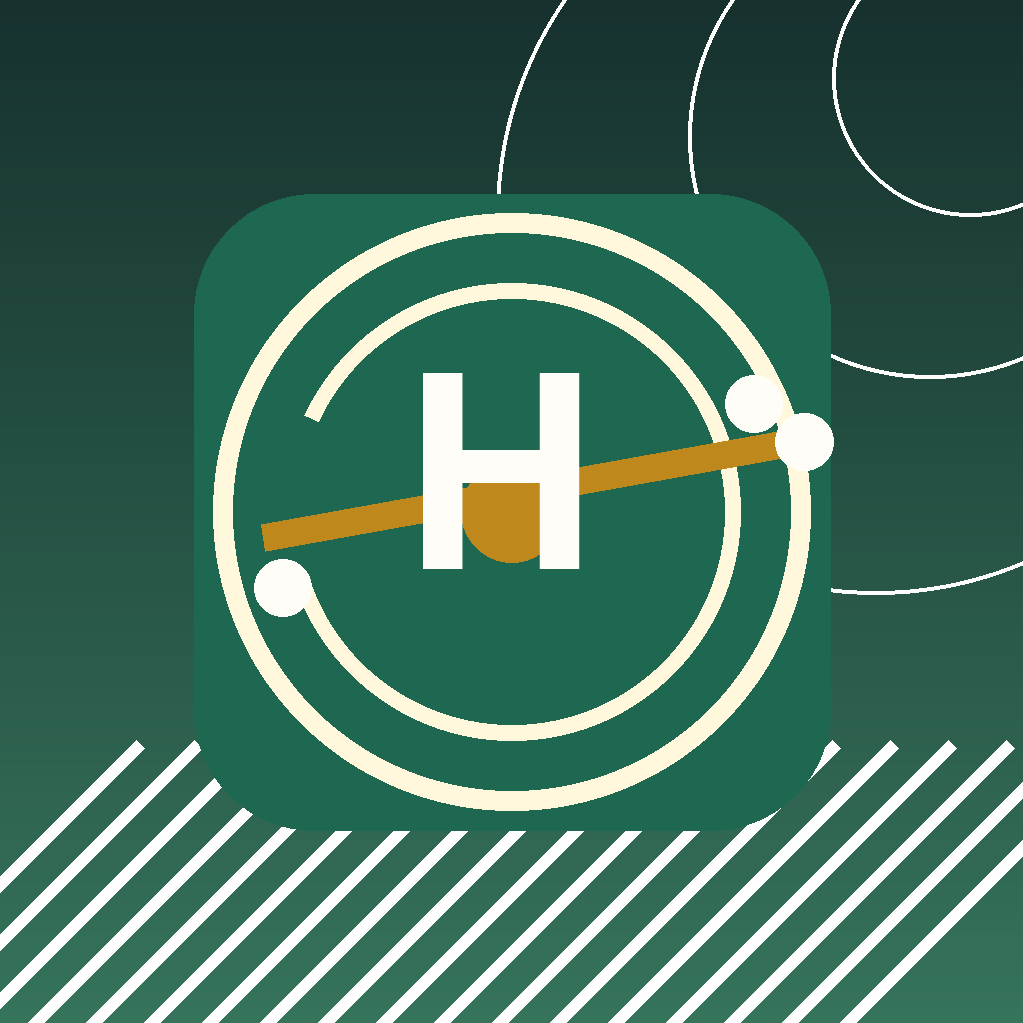
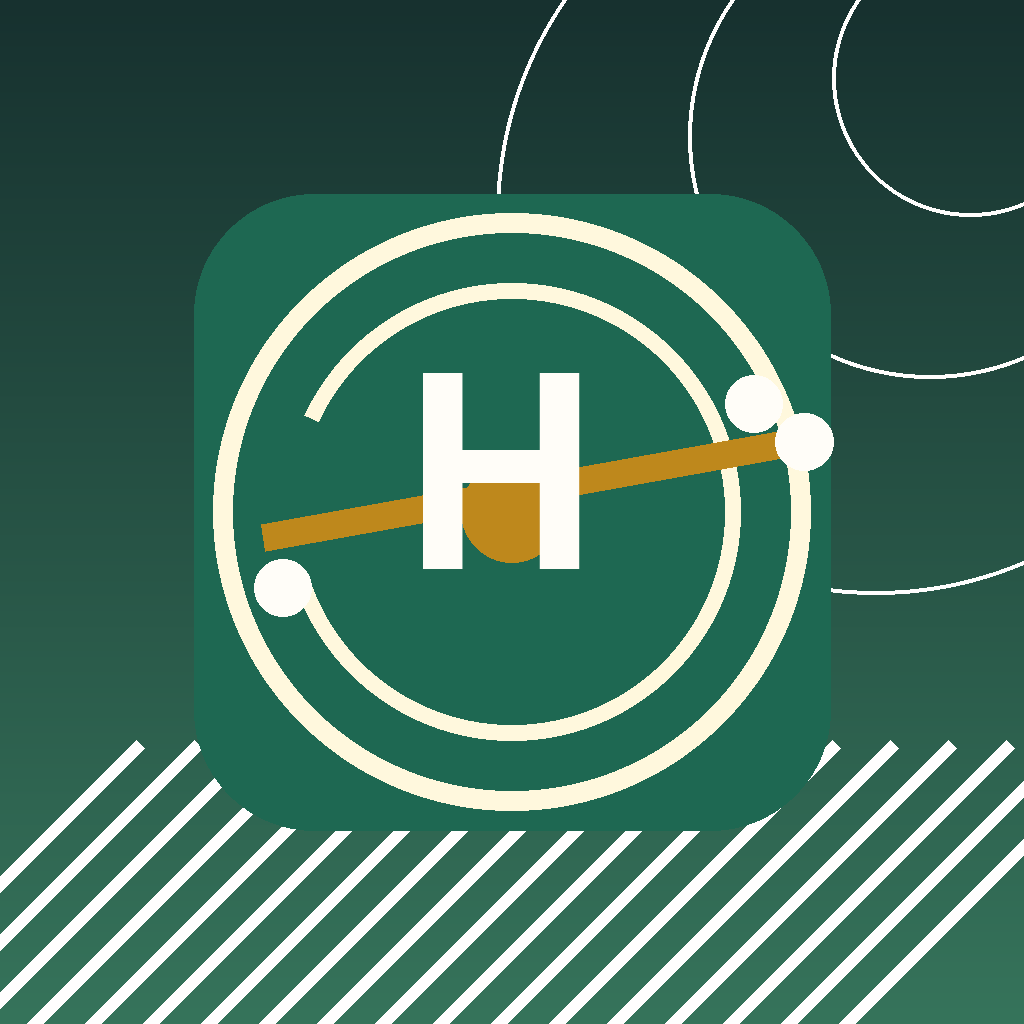
Resize World developer portal assets

Changed region(s): [[0.697, 0.4545, 0.7273, 0.4848]]

diff --git a/scripts/generate_world_assets.py b/scripts/generate_world_assets.py
@@ -81,6 +81,8 @@ def draw_logo(draw, cx, cy, r, scale=1.0):
 def draw_phone_chrome(draw, w, h, active="Home"):
     nav_h = 122
     rounded(draw, (22, 22, w - 22, h - 22), 46, PAPER, outline=LINE, width=2)
+    if h <= 1200:
+        return
     draw.rectangle((24, h - nav_h - 22, w - 24, h - 24), fill=(252, 248, 241))
     items = [("⌂", "Home"), ("?", "Ask"), ("✧", "Chains"), ("⌑", "Market"), ("▭", "Stories"), ("○", "Me")]
     step = (w - 70) / len(items)
@@ -105,134 +107,123 @@ def app_icon():
 
 
 def content_card():
-    w, h = 1035, 720
+    w, h = 345, 240
     img = gradient((w, h), GREEN_DARK, GREEN_MID).convert("RGBA")
     d = ImageDraw.Draw(img)
-    for r in [460, 300]:
-        d.ellipse((w - r, -r // 2, w + r // 4, r), outline=(255, 253, 248, 42), width=3)
-    for x in range(-120, 330, 40):
-        d.line((x, h, x + 280, h - 280), fill=(255, 253, 248, 24), width=15)
-    draw_logo(d, 132, 124, 58, 1.0)
-    d.text((218, 88), "Verified human network", fill=(232, 226, 214), font=font(32, True))
-    d.text((218, 130), "HumanChain", fill=(255, 253, 248), font=font(44, True))
-    d.text((64, 250), "Ask people, not algorithms.", fill=(255, 253, 248), font=font(72, True))
-    copy = "Real questions, human stories, nearby trade, and simple bids inside World App."
-    y = 348
-    for line in wrap_text(d, copy, font(38), 760):
-        d.text((64, y), line, fill=(255, 253, 248), font=font(38))
-        y += 52
-    # Required foreground blur/quiet zone at bottom 94px.
-    overlay = Image.new("RGBA", (w, 282), (0, 0, 0, 0))
+    draw_logo(d, 48, 45, 26, 0.46)
+    d.text((88, 28), "HumanChain", fill=(255, 253, 248), font=font(25, True))
+    d.text((22, 88), "Ask real humans.", fill=(255, 253, 248), font=font(30, True))
+    d.text((22, 122), "Get the world's verdict.", fill=(255, 253, 248), font=font(25, True))
+    copy = "Questions · stories · nearby market · simple bids"
+    y = 158
+    for line in wrap_text(d, copy, font(17), 286):
+        d.text((22, y), line, fill=(232, 226, 214), font=font(17))
+        y += 20
+    rounded(d, (22, 202, 142, 228), 13, (255, 253, 248))
+    d.text((82, 215), "Open", fill=INK, font=font(15, True), anchor="mm")
+    overlay = Image.new("RGBA", (w, 72), (0, 0, 0, 0))
     od = ImageDraw.Draw(overlay)
-    od.rounded_rectangle((0, 0, w, 282), radius=88, fill=(20, 34, 35, 190))
-    overlay = overlay.filter(ImageFilter.GaussianBlur(28))
-    img.alpha_composite(overlay, (0, h - 240))
-    img.save(OUT / "humanchain-tag-content-card-1035x720.png")
+    od.rounded_rectangle((0, 0, w, 72), radius=26, fill=(20, 34, 35, 34))
+    overlay = overlay.filter(ImageFilter.GaussianBlur(8))
+    img.alpha_composite(overlay, (0, h - 64))
+    img.save(OUT / "humanchain-tag-content-card-345x240.png")
 
 
 def showcase_home():
-    w, h = 1080, 1920
+    w, h = 1080, 1080
     img = Image.new("RGB", (w, h), (246, 240, 231))
     d = ImageDraw.Draw(img)
     draw_phone_chrome(d, w, h, "Home")
-    x0, y0, x1 = 46, 70, w - 46
-    rounded(d, (x0, y0, x1, 650), 60, GREEN_DARK)
+    x0, y0, x1 = 46, 56, w - 46
+    rounded(d, (x0, y0, x1, 430), 48, GREEN_DARK)
     d.ellipse((760, -90, 1120, 270), outline=(255, 253, 248, 58), width=3)
-    draw_logo(d, 142, 160, 62)
-    d.text((236, 120), "Verified human network", fill=(227, 221, 211), font=font(30, True))
-    d.text((236, 166), "HumanChain", fill=(255, 253, 248), font=font(42, True))
-    d.text((78, 270), "Where real humans\ncarry wisdom forward.", fill=(255, 253, 248), font=font(74, True), spacing=8)
+    draw_logo(d, 126, 138, 50)
+    d.text((206, 106), "Verified human network", fill=(227, 221, 211), font=font(28, True))
+    d.text((206, 146), "HumanChain", fill=(255, 253, 248), font=font(40, True))
+    d.text((78, 236), "Where real humans\ncarry wisdom forward.", fill=(255, 253, 248), font=font(58, True), spacing=6)
     copy = "Ask real people, read human stories, save field wisdom, trade with nearby humans, and build a visible chain of purpose."
-    y = 440
-    for line in wrap_text(d, copy, font(35), 840):
-        d.text((78, y), line, fill=(255, 253, 248), font=font(35))
-        y += 50
+    y = 348
+    for line in wrap_text(d, copy, font(25), 850)[:2]:
+        d.text((78, y), line, fill=(255, 253, 248), font=font(25))
+        y += 36
     chips = ["Daily human question", "Story vault", "Nearby marketplace", "Human points"]
     for i, chip in enumerate(chips):
         cx = 78 + (i % 2) * 465
-        cy = 690 + (i // 2) * 86
-        rounded(d, (cx, cy, cx + 420, cy + 62), 26, (76, 127, 104), outline=(132, 170, 151), width=2)
-        d.text((cx + 28, cy + 18), chip, fill=(255, 253, 248), font=font(27, True))
+        cy = 462 + (i // 2) * 68
+        rounded(d, (cx, cy, cx + 420, cy + 48), 24, (76, 127, 104), outline=(132, 170, 151), width=2)
+        d.text((cx + 28, cy + 12), chip, fill=(255, 253, 248), font=font(24, True))
     cards = [("Ask The\nWorld", "Real answers\nfrom verified\nhumans"), ("Join Today's\nChain", "Add one link to\nthe world"), ("Human\nMarket", "Buy, sell, and\npromote nearby"), ("Story Vault", "Monthly stories\nfrom real people")]
     for i, (title, text) in enumerate(cards):
         cx = 34 + (i % 3) * 342
-        cy = 930 + (i // 3) * 360
-        rounded(d, (cx, cy, cx + 304, cy + 320), 28, PAPER_STRONG, outline=LINE, width=2)
-        d.text((cx + 32, cy + 82), title, fill=INK, font=font(36, True), spacing=4)
-        d.text((cx + 32, cy + 194), text, fill=(120, 119, 111), font=font(29), spacing=6)
-    img.save(OUT / "humanchain-showcase-1-home-1080x1920.png")
+        cy = 635 + (i // 3) * 230
+        rounded(d, (cx, cy, cx + 304, cy + 205), 28, PAPER_STRONG, outline=LINE, width=2)
+        d.text((cx + 32, cy + 52), title, fill=INK, font=font(31, True), spacing=3)
+        d.text((cx + 32, cy + 130), text, fill=(120, 119, 111), font=font(21), spacing=4)
+    img.save(OUT / "humanchain-showcase-1-home-1080x1080.png")
 
 
 def showcase_ask():
-    w, h = 1080, 1920
+    w, h = 1080, 1080
     img = Image.new("RGB", (w, h), (246, 240, 231))
     d = ImageDraw.Draw(img)
     draw_phone_chrome(d, w, h, "Ask")
-    rounded(d, (42, 64, w - 42, 360), 46, (76, 104, 159))
-    d.text((84, 86), "Ask people, not algorithms.", fill=(255, 253, 248), font=font(60, True))
-    d.text((84, 166), "Publish one honest question and watch real answers form into a living verdict.", fill=(232, 236, 245), font=font(36), spacing=5)
-    rounded(d, (42, 402, w - 42, 1260), 40, PAPER_STRONG, outline=LINE, width=2)
-    d.text((84, 462), "What do you want to ask humanity?", fill=INK, font=font(38, True))
-    rounded(d, (84, 538, w - 84, 820), 32, (255, 252, 246), outline=LINE, width=2)
-    d.text((120, 590), "Example: Should I leave my job and start\nmy own business?", fill=(126, 126, 123), font=font(34), spacing=10)
+    rounded(d, (42, 58, w - 42, 270), 42, (76, 104, 159))
+    d.text((84, 88), "Ask people, not algorithms.", fill=(255, 253, 248), font=font(52, True))
+    d.text((84, 160), "Publish one honest question and watch real answers form.", fill=(232, 236, 245), font=font(30), spacing=5)
+    rounded(d, (42, 318, w - 42, 850), 38, PAPER_STRONG, outline=LINE, width=2)
+    d.text((84, 368), "What do you want to ask humanity?", fill=INK, font=font(36, True))
+    rounded(d, (84, 438, w - 84, 622), 30, (255, 252, 246), outline=LINE, width=2)
+    d.text((120, 490), "Example: Should I leave my job and start\nmy own business?", fill=(126, 126, 123), font=font(30), spacing=8)
     modes = [("Text", "Public question", True), ("Voice", "Hear my tone", False), ("Private", "Hide identity", False), ("Deep Verdict", "Human report", False)]
     for i, (a, b, active) in enumerate(modes):
         cx = 84 + (i % 2) * 464
-        cy = 870 + (i // 2) * 170
-        rounded(d, (cx, cy, cx + 430, cy + 128), 26, GREEN if active else PAPER_STRONG, outline=LINE, width=2)
-        d.text((cx + 28, cy + 28), a, fill=(255, 253, 248) if active else INK, font=font(35, True))
-        d.text((cx + 28, cy + 78), b, fill=(232, 226, 214) if active else GOLD, font=font(26, True))
+        cy = 665 + (i // 2) * 108
+        rounded(d, (cx, cy, cx + 430, cy + 82), 24, GREEN if active else PAPER_STRONG, outline=LINE, width=2)
+        d.text((cx + 28, cy + 14), a, fill=(255, 253, 248) if active else INK, font=font(30, True))
+        d.text((cx + 28, cy + 52), b, fill=(232, 226, 214) if active else GOLD, font=font(22, True))
     topics = ["Life", "Love", "Money", "Business", "Family"]
     x = 84
     for i, t in enumerate(topics):
         tw = d.textbbox((0, 0), t, font=font(26))[2] + 52
-        rounded(d, (x, 1092, x + tw, 1160), 34, GREEN if i == 0 else PAPER_STRONG, outline=LINE, width=2)
-        d.text((x + tw / 2, 1126), t, fill=(255, 253, 248) if i == 0 else INK, font=font(26), anchor="mm")
+        rounded(d, (x, 856, x + tw, 906), 25, GREEN if i == 0 else PAPER_STRONG, outline=LINE, width=2)
+        d.text((x + tw / 2, 881), t, fill=(255, 253, 248) if i == 0 else INK, font=font(24), anchor="mm")
         x += tw + 16
-    rounded(d, (84, 1188, w - 84, 1292), 52, INK)
-    d.text((w // 2, 1240), "Ask Verified Humans", fill=(255, 253, 248), font=font(39, True), anchor="mm")
-    d.text((42, 1325), "Live Human Questions", fill=(102, 109, 101), font=font(32, True))
-    for i in range(2):
-        cy = 1385 + i * 175
-        rounded(d, (42, cy, w - 42, cy + 138), 28, PAPER_STRONG, outline=LINE, width=2)
-        d.text((84, cy + 32), ["Is discipline love for my future self?", "How do I repair trust after silence?"][i], fill=INK, font=font(30, True))
-        d.text((84, cy + 84), ["18 answers forming", "42 humans joined"][i], fill=GOLD, font=font(24, True))
-    img.save(OUT / "humanchain-showcase-2-ask-1080x1920.png")
+    rounded(d, (84, 920, w - 84, 986), 33, INK)
+    d.text((w // 2, 953), "Ask Verified Humans", fill=(255, 253, 248), font=font(34, True), anchor="mm")
+    img.save(OUT / "humanchain-showcase-2-ask-1080x1080.png")
 
 
 def showcase_market():
-    w, h = 1080, 1920
+    w, h = 1080, 1080
     img = Image.new("RGB", (w, h), (246, 240, 231))
     d = ImageDraw.Draw(img)
     draw_phone_chrome(d, w, h, "Market")
-    rounded(d, (42, 60, w - 42, 430), 48, (30, 78, 91))
-    d.text((84, 112), "HumanChain Market", fill=(232, 226, 214), font=font(30, True))
-    d.text((84, 164), "Simple bids.\nReal nearby humans.", fill=(255, 253, 248), font=font(70, True), spacing=8)
-    d.text((84, 330), "Buy, sell, and promote nearby with safe receipts.", fill=(234, 239, 237), font=font(34))
-    rounded(d, (42, 470, w - 42, 605), 30, PAPER_STRONG, outline=LINE, width=2)
-    d.text((88, 512), "Nearby market active", fill=INK, font=font(34, True))
-    d.text((88, 558), "Westlands · Browser/manual location only", fill=MUTED, font=font(27))
+    rounded(d, (42, 58, w - 42, 292), 44, (30, 78, 91))
+    d.text((84, 104), "HumanChain Market", fill=(232, 226, 214), font=font(30, True))
+    d.text((84, 154), "Simple bids.\nReal nearby humans.", fill=(255, 253, 248), font=font(50, True), spacing=2)
+    d.text((84, 252), "Buy, sell, and promote nearby with safe receipts.", fill=(234, 239, 237), font=font(26))
+    rounded(d, (42, 330, w - 42, 436), 28, PAPER_STRONG, outline=LINE, width=2)
+    d.text((88, 366), "Nearby market active", fill=INK, font=font(32, True))
+    d.text((88, 408), "Westlands - Browser/manual location only", fill=MUTED, font=font(25))
     items = [("Samsung Galaxy A54", "22 WLD target", "Best 20 WLD", "Next bid 20.5 WLD", True), ("Canvas tote bags", "4 WLD target", "Best 3.5 WLD", "Next bid 4 WLD", True), ("Restaurant launch poster", "Sponsored", "Direct inbox", "Marketing link", False)]
     for i, (title, price, best, nextbid, bidding) in enumerate(items):
-        cy = 650 + i * 300
-        rounded(d, (42, cy, w - 42, cy + 260), 34, PAPER_STRONG, outline=LINE, width=2)
-        rounded(d, (84, cy + 42, 198, cy + 156), 28, BLUE if i == 0 else GOLD if i == 1 else GREEN)
-        d.text((226, cy + 42), title, fill=INK, font=font(34, True))
-        d.text((226, cy + 88), price, fill=GOLD, font=font(28, True))
-        d.text((226, cy + 130), best, fill=MUTED, font=font(26))
+        cy = 470 + i * 174
+        rounded(d, (42, cy, w - 42, cy + 150), 30, PAPER_STRONG, outline=LINE, width=2)
+        rounded(d, (84, cy + 28, 170, cy + 114), 22, BLUE if i == 0 else GOLD if i == 1 else GREEN)
+        d.text((206, cy + 28), title, fill=INK, font=font(31, True))
+        d.text((206, cy + 70), price, fill=GOLD, font=font(25, True))
+        d.text((206, cy + 105), best, fill=MUTED, font=font(23))
         if bidding:
-            rounded(d, (226, cy + 178, 488, cy + 226), 24, (239, 245, 255), outline=(196, 211, 247), width=2)
-            d.text((357, cy + 202), nextbid, fill=BLUE, font=font(24, True), anchor="mm")
-            rounded(d, (w - 286, cy + 170, w - 84, cy + 232), 31, INK)
-            d.text((w - 185, cy + 201), "Place bid", fill=PAPER_STRONG, font=font(25, True), anchor="mm")
+            rounded(d, (w - 286, cy + 54, w - 84, cy + 112), 29, INK)
+            d.text((w - 185, cy + 83), "Place bid", fill=PAPER_STRONG, font=font(25, True), anchor="mm")
         else:
-            rounded(d, (226, cy + 178, 530, cy + 226), 24, (237, 247, 242), outline=(192, 221, 207), width=2)
-            d.text((378, cy + 202), "Open seller chat", fill=GREEN, font=font(24, True), anchor="mm")
-    img.save(OUT / "humanchain-showcase-3-market-1080x1920.png")
+            rounded(d, (w - 330, cy + 54, w - 84, cy + 112), 29, (237, 247, 242), outline=(192, 221, 207), width=2)
+            d.text((w - 207, cy + 83), "Seller chat", fill=GREEN, font=font(24, True), anchor="mm")
+    img.save(OUT / "humanchain-showcase-3-market-1080x1080.png")
 
 
 def meta_image():
-    w, h = 1200, 630
+    w, h = 1200, 600
     img = gradient((w, h), GREEN_DARK, GREEN_MID).convert("RGBA")
     d = ImageDraw.Draw(img)
     for r in [520, 340]:
@@ -243,7 +234,7 @@ def meta_image():
     d.text((76, 440), "Verified questions · human stories · nearby market · simple bids", fill=(237, 231, 220), font=font(34))
     rounded(d, (76, 510, 360, 572), 31, (255, 253, 248))
     d.text((218, 541), "Open HumanChain", fill=INK, font=font(28, True), anchor="mm")
-    img.save(OUT / "humanchain-meta-image-1200x630.png")
+    img.save(OUT / "humanchain-meta-image-1200x600.png")
 
 
 if __name__ == "__main__":